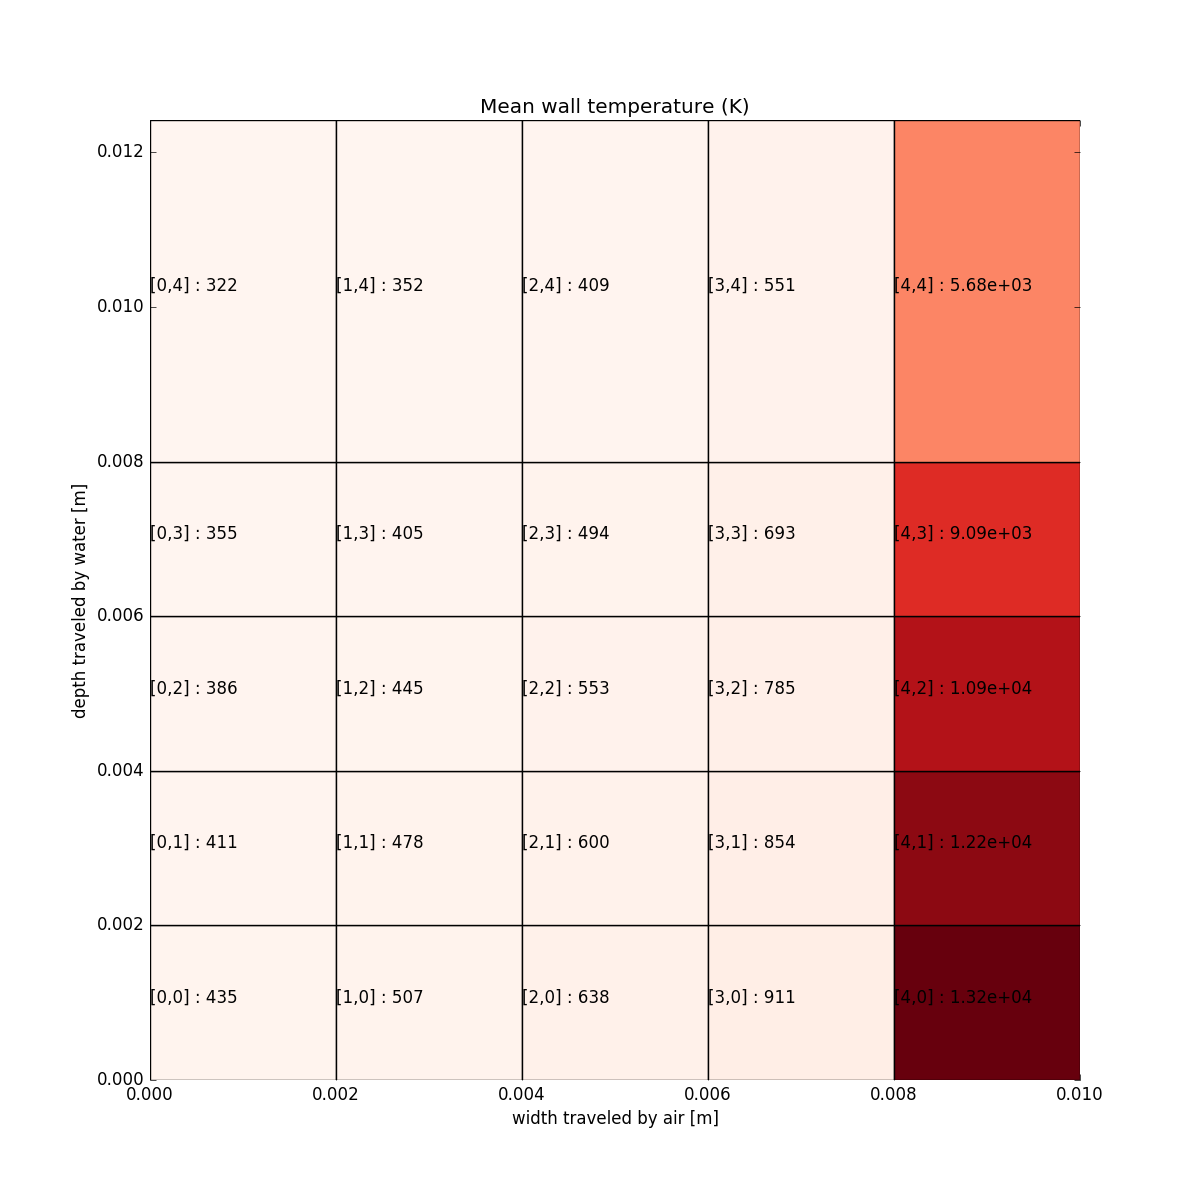
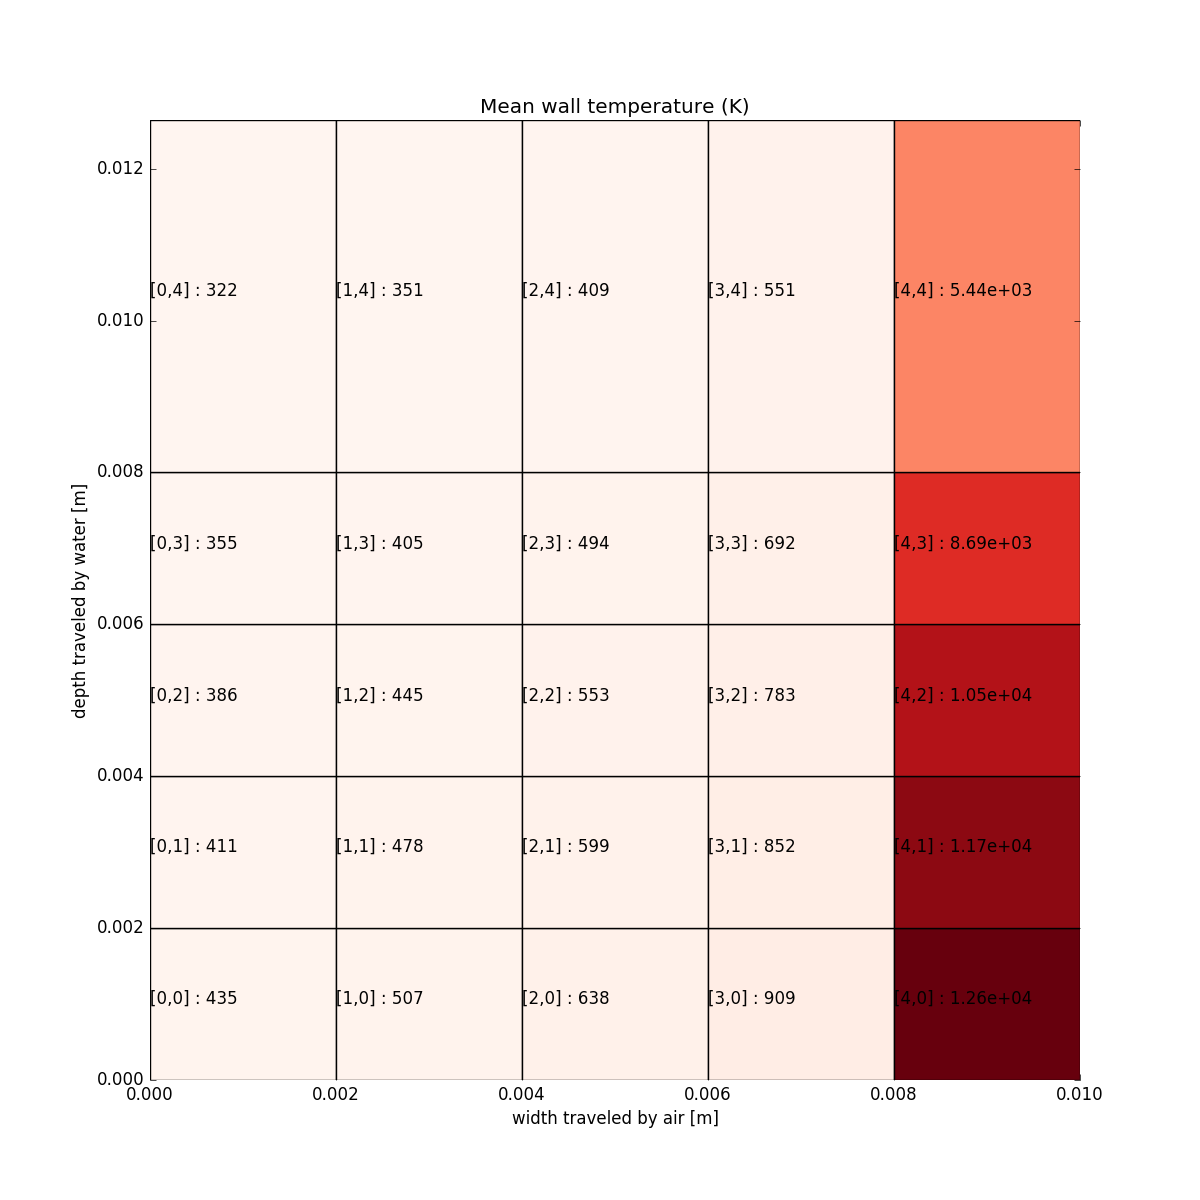
Removing D_seg, simplifying dP scaling.

diff --git a/heatexchanger/layer.py b/heatexchanger/layer.py
@@ -53,19 +53,19 @@ class Layer(Model):
             SP_Qsum = Q <= c.dQ.sum()
             for i in range(Nwaterpipes):
                 waterCf.extend([waterpipes.D[i] >= waterpipes.fr[i]*waterpipes.A_seg[i,0],
-                                waterpipes.fr[i] >= waterpipes.dP[i,:].sum()])
+                                waterpipes.fr[i] >= waterpipes.dP[i,:].sum(),
+                                waterpipes.dP_scale[0] == waterpipes.dP_scale[i]])
                 for j in range(Nairpipes):
                     waterCf.extend([waterpipes.l[i,j] <= sum(airpipes.w[0:j+1]),
                                     waterpipes.dP[i,j] >= waterpipes.dP_scale[i]*0.5*water.rho*waterpipes.v_avg[i,j]**2*waterpipes.Cf[i,j]*waterpipes.l_seg[i,j]/waterpipes.dh[i,j],
-                                    waterpipes.D_seg[i,j] == 0.5*water.rho*waterpipes.v_avg[i,j]**2*waterpipes.Cf[i,j]*waterpipes.w[i]*waterpipes.l_seg[i,j],
                                             ])
             for i in range(Nairpipes):
                 airCf.extend([airpipes.D[i] >= airpipes.fr[i]*airpipes.A_seg[i,0],
-                              airpipes.fr[i] >= airpipes.dP[i,:].sum()])
+                              airpipes.fr[i] >= airpipes.dP[i,:].sum(),
+                              airpipes.dP_scale[0] == airpipes.dP_scale[i]])
                 for j in range(Nwaterpipes):
                     airCf.extend([airpipes.l[i,j] <= sum(waterpipes.w[0:j+1]),
                                   airpipes.dP[i,j] >= airpipes.dP_scale[i]*0.5*air.rho*airpipes.v_avg[i,j]**2*airpipes.Cf[i,j]*airpipes.l_seg[i,j]/airpipes.dh[i,j],
-                                  airpipes.D_seg[i,j] == 0.5*air.rho*airpipes.v_avg[i,j]**2*airpipes.Cf[i,j]*airpipes.w[i]*airpipes.l_seg[i,j],
                                             ])
 
         geom = [V_tot >= sum(sum(waterpipes.V_seg)) + sum(sum(airpipes.V_seg))]
@@ -126,7 +126,7 @@ if __name__ == "__main__":
     #     'Q'    :4*units('W')
     #     })
     penalties = (m.waterpipes.dP_scale.prod()*m.airpipes.dP_scale.prod()*m.waterpipes.dT.prod()*m.airpipes.dT.prod())**-1
-    m.cost = penalties*1*m.Q**-1*(1*m.waterpipes.D.sum()+ 1*m.airpipes.D.sum() + 1*m.waterpipes.D_seg.sum()+ 1*m.airpipes.D_seg.sum())
+    m.cost = penalties*1*m.Q**-1*(1*m.waterpipes.D.sum()+ 1*m.airpipes.D.sum())
     #m = Model(m.cost,Bounded(m))
     m = relaxed_constants(m)
     sol = m.localsolve(verbosity=4)

diff --git a/heatexchanger/cellplot.py b/heatexchanger/cellplot.py
@@ -95,17 +95,15 @@ if __name__ == "__main__":
     a.set_title("Heat Transfer (%.2f Watts total)" % Q)
     f.savefig("plots/dQ.png")
 
-    # Water drag in each cell
-    waterD = sum(sum(sol(m.original.waterpipes.D_seg).magnitude))
-    f, a = plot_cells(m, sol(m.original.waterpipes.D_seg), cm=cm.Blues, zscale=1/Nw/Na, zoff=0.625/Nw/Na, verbosity=2)
-    a.set_title("Drag force due to each water cell (%.2f Watts total)" % waterD)
-    f.savefig("plots/waterD.png")
+    # Water velocity in each cell
+    f, a = plot_cells(m, sol(m.original.waterpipes.v_avg), cm=cm.Blues, zscale=1/Nw/Na, zoff=0.625/Nw/Na, verbosity=2)
+    a.set_title("Average velocity in water cell")
+    f.savefig("plots/waterV.png")
 
-    # Air drag in each cell
-    airD = sum(sum(sol(m.original.airpipes.D_seg).T.magnitude))
-    f, a = plot_cells(m, sol(m.original.airpipes.D_seg), cm=cm.Reds, zscale=1/Nw/Na, zoff=0.625/Nw/Na, verbosity=2)
-    a.set_title("Drag force due to each air cell (%.2f N total)" % airD)
-    f.savefig("plots/airD.png")
+    # Air velocity in each cell
+    f, a = plot_cells(m, sol(m.original.airpipes.v_avg).T, cm=cm.Reds, zscale=1/Nw/Na, zoff=0.625/Nw/Na, verbosity=2)
+    a.set_title("Average velocity in air cell")
+    f.savefig("plots/airV.png")
 
     # Wall temperature
     f, a = plot_cells(m, sol(m.original.c.T_r), cm=cm.Reds, zscale=1/Nw/Na, zoff=0.625/Nw/Na, verbosity=2)

diff --git a/heatexchanger/rectpipe.py b/heatexchanger/rectpipe.py
@@ -46,8 +46,6 @@ class RectangularPipe(Model):
     Re                    [-]      Reynolds number
     dP                    [Pa]     segment pressure drop
     Tr_int                [K]      wall-fluid interface temperature
-    D_seg                 [N]      segment drag
-
   
     Upper Unbounded
     ---------------
@@ -97,8 +95,6 @@ class RectangularPipe(Model):
                         eta_h <= 0.844,  # boundary to make sure fit is valid
                         # pressure drop fit
                         Pf_rat**0.155 >= 0.475*Re_rat[-1]**0.00121 + 0.0338*Re_rat[-1]**-0.336,
-
-
                         ]
 
         return [
